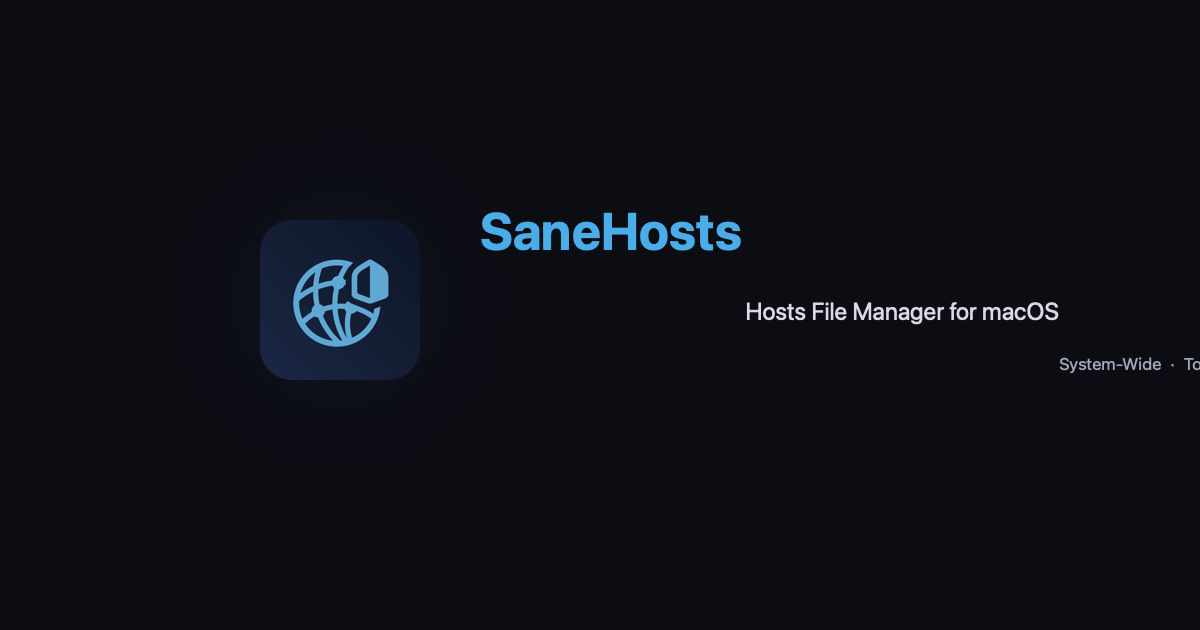
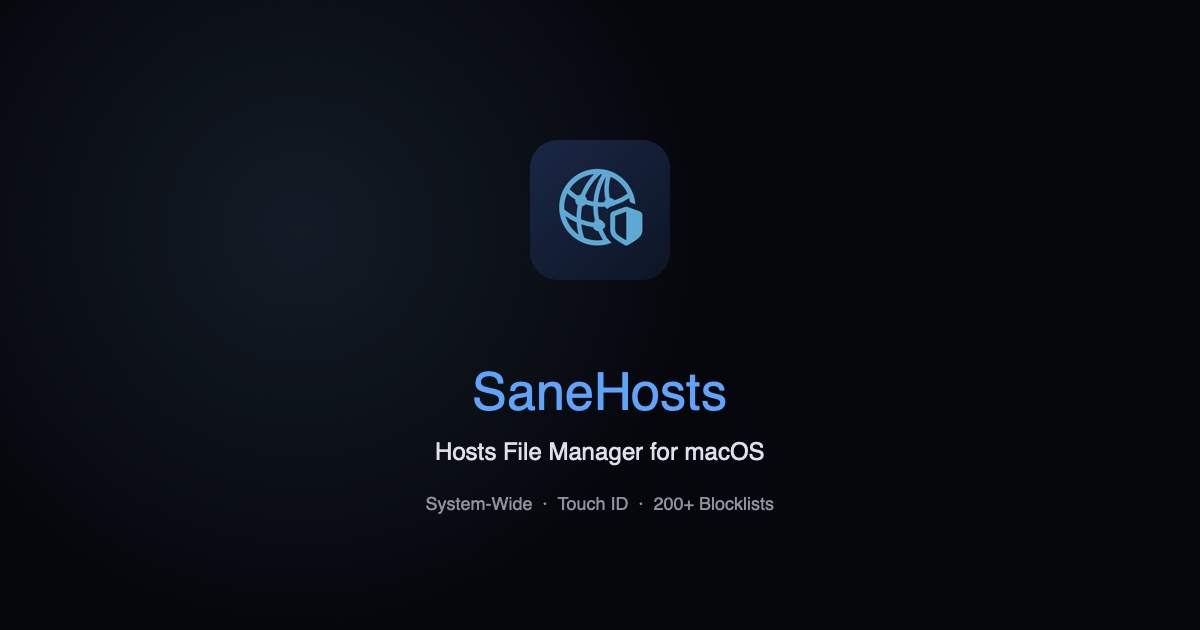
fix: website SEO audit fixes — OG tags, robots.txt, sitemap, dead CSS
- Regenerate og-image.png with centered content
- Add robots.txt and sitemap.xml (11 pages)
- Add canonical URLs, og:image dimensions, Twitter Card tags to all subpages
- Fix block-porn.html missing div wrapper in list item
- Remove orphaned dead sustainability CSS from index.html
- Remove unreferenced images/icon.png (234KB)
- Add meta descriptions and favicon to privacy.html

diff --git a/website/block-porn.html b/website/block-porn.html
@@ -14,6 +14,15 @@
     <meta property="og:image" content="https://sanehosts.com/og-image.png">
     <meta property="og:type" content="article">
     <meta property="og:url" content="https://sanehosts.com/block-porn.html">
+    <meta property="og:image:width" content="1200">
+    <meta property="og:image:height" content="630">
+    <link rel="canonical" href="https://sanehosts.com/block-porn.html" />
+
+    <!-- Twitter Card -->
+    <meta name="twitter:card" content="summary_large_image">
+    <meta name="twitter:title" content="How to Block Pornography on Mac (System-Wide)">
+    <meta name="twitter:description" content="Manual edits vs. DNS vs. SaneHosts. The complete guide.">
+    <meta name="twitter:image" content="https://sanehosts.com/og-image.png">
 
     <!-- Fonts -->
     <link rel="preconnect" href="https://fonts.googleapis.com">
@@ -263,7 +272,7 @@
                     <ul class="pc-list">
                         <li><span class="icon-check">✓</span> <div><strong>Touch ID Locked:</strong> Prevents easy bypassing (requires auth)</div></li>
                         <li><span class="icon-check">✓</span> <div><strong>Family Safe Preset:</strong> One click to set up</div></li>
-                        <li><span class="icon-check">✓</span> <strong>Fast:</strong> Uses optimized local parsing, no lag</div></li>
+                        <li><span class="icon-check">✓</span> <div><strong>Fast:</strong> Uses optimized local parsing, no lag</div></li>
                         <li><span class="icon-check">✓</span> <div><strong>Auto-Updates:</strong> Keeps the blocklist fresh</div></li>
                     </ul>
                 </div>

diff --git a/website/privacy.html b/website/privacy.html
@@ -4,6 +4,24 @@
     <meta charset="UTF-8">
     <meta name="viewport" content="width=device-width, initial-scale=1.0">
     <title>Privacy Policy - SaneHosts</title>
+    <meta name="description" content="SaneHosts collects zero data. No accounts, no analytics, no telemetry. Your data stays on your Mac.">
+    <link rel="icon" type="image/png" href="favicon.png">
+
+    <!-- Open Graph -->
+    <meta property="og:type" content="website">
+    <meta property="og:title" content="Privacy Policy - SaneHosts">
+    <meta property="og:description" content="SaneHosts collects zero data. No accounts, no analytics, no telemetry. Your data stays on your Mac.">
+    <meta property="og:image" content="https://sanehosts.com/og-image.png">
+    <meta property="og:image:width" content="1200">
+    <meta property="og:image:height" content="630">
+    <meta property="og:url" content="https://sanehosts.com/privacy.html">
+    <link rel="canonical" href="https://sanehosts.com/privacy.html" />
+
+    <!-- Twitter Card -->
+    <meta name="twitter:card" content="summary_large_image">
+    <meta name="twitter:title" content="Privacy Policy - SaneHosts">
+    <meta name="twitter:description" content="SaneHosts collects zero data. No accounts, no analytics, no telemetry. Your data stays on your Mac.">
+    <meta name="twitter:image" content="https://sanehosts.com/og-image.png">
     <style>
         :root {
             --bg-dark: #0d1525;

diff --git a/website/index.html b/website/index.html
@@ -1047,22 +1047,6 @@
                 padding-top: 110px !important;
             }
         }
-            .sustainability { padding: 80px 0; border-top: 1px solid var(--border-subtle); }
-        .sustainability-card {
-            background: linear-gradient(160deg, var(--bg-card) 0%, var(--bg-secondary) 100%);
-            border: 1px solid var(--border-subtle); border-radius: 28px; padding: 60px;
-            max-width: 800px; margin: 0 auto; position: relative; text-align: center;
-        }
-        .sustainability-options { display: grid; grid-template-columns: 1fr 1fr; gap: 20px; margin-top: 40px; }
-        .sustainability-option { 
-            text-align: left; border: 1px solid var(--border); padding: 24px; border-radius: 16px; 
-            text-decoration: none; color: inherit; transition: all 0.3s;
-        }
-        .sustainability-option:hover { border-color: var(--accent); transform: translateY(-2px); }
-        .sustainability-option.featured { background: var(--accent-subtle); border-color: var(--accent); }
-        .sustainability-option h4 { font-size: 1rem; margin-bottom: 8px; color: var(--text-primary); }
-        .sustainability-option p { font-size: 0.85rem; color: var(--text-muted); line-height: 1.5; }
-        @media (max-width: 768px) { .sustainability-options { grid-template-columns: 1fr; } }
     </style>
 </head>
 <body>

diff --git a/website/guides.html b/website/guides.html
@@ -6,6 +6,22 @@
     <title>SaneHosts Guides & Tutorials</title>
     <meta name="description" content="Step-by-step guides for blocking gambling, social media, Adobe, and more on macOS using the hosts file or SaneHosts.">
     <link rel="icon" type="image/png" href="favicon.png">
+
+    <!-- Open Graph -->
+    <meta property="og:type" content="website">
+    <meta property="og:title" content="SaneHosts Guides &amp; Tutorials">
+    <meta property="og:description" content="Step-by-step guides for blocking ads, trackers, gambling, social media, and more on Mac.">
+    <meta property="og:image" content="https://sanehosts.com/og-image.png">
+    <meta property="og:image:width" content="1200">
+    <meta property="og:image:height" content="630">
+    <meta property="og:url" content="https://sanehosts.com/guides.html">
+    <link rel="canonical" href="https://sanehosts.com/guides.html" />
+
+    <!-- Twitter Card -->
+    <meta name="twitter:card" content="summary_large_image">
+    <meta name="twitter:title" content="SaneHosts Guides &amp; Tutorials">
+    <meta name="twitter:description" content="Step-by-step guides for blocking ads, trackers, gambling, social media, and more on Mac.">
+    <meta name="twitter:image" content="https://sanehosts.com/og-image.png">
     
     <!-- Fonts -->
     <link rel="preconnect" href="https://fonts.googleapis.com">

diff --git a/website/gas-mask-alternative.html b/website/gas-mask-alternative.html
@@ -14,6 +14,15 @@
     <meta property="og:image" content="https://sanehosts.com/og-image.png">
     <meta property="og:type" content="article">
     <meta property="og:url" content="https://sanehosts.com/gas-mask-alternative.html">
+    <meta property="og:image:width" content="1200">
+    <meta property="og:image:height" content="630">
+    <link rel="canonical" href="https://sanehosts.com/gas-mask-alternative.html" />
+
+    <!-- Twitter Card -->
+    <meta name="twitter:card" content="summary_large_image">
+    <meta name="twitter:title" content="Gas Mask for Mac Not Working? The Native Alternative">
+    <meta name="twitter:description" content="Stop struggling with abandonware. Upgrade to the modern, native hosts manager.">
+    <meta name="twitter:image" content="https://sanehosts.com/og-image.png">
 
     <!-- Fonts -->
     <link rel="preconnect" href="https://fonts.googleapis.com">

diff --git a/website/block-social-media.html b/website/block-social-media.html
@@ -14,6 +14,15 @@
     <meta property="og:image" content="https://sanehosts.com/og-image.png">
     <meta property="og:type" content="article">
     <meta property="og:url" content="https://sanehosts.com/block-social-media.html">
+    <meta property="og:image:width" content="1200">
+    <meta property="og:image:height" content="630">
+    <link rel="canonical" href="https://sanehosts.com/block-social-media.html" />
+
+    <!-- Twitter Card -->
+    <meta name="twitter:card" content="summary_large_image">
+    <meta name="twitter:title" content="How to Block Social Media on Mac (Hard vs Easy Mode)">
+    <meta name="twitter:description" content="Manual edits vs. Subscriptions vs. SaneHosts. Find the right blocker for you.">
+    <meta name="twitter:image" content="https://sanehosts.com/og-image.png">
 
     <!-- Fonts -->
     <link rel="preconnect" href="https://fonts.googleapis.com">

diff --git a/website/block-malware.html b/website/block-malware.html
@@ -14,6 +14,15 @@
     <meta property="og:image" content="https://sanehosts.com/og-image.png">
     <meta property="og:type" content="article">
     <meta property="og:url" content="https://sanehosts.com/block-malware.html">
+    <meta property="og:image:width" content="1200">
+    <meta property="og:image:height" content="630">
+    <link rel="canonical" href="https://sanehosts.com/block-malware.html" />
+
+    <!-- Twitter Card -->
+    <meta name="twitter:card" content="summary_large_image">
+    <meta name="twitter:title" content="How to Turn Your Hosts File into a Malware Firewall">
+    <meta name="twitter:description" content="Block C&amp;C servers system-wide. Manual vs Antivirus vs SaneHosts.">
+    <meta name="twitter:image" content="https://sanehosts.com/og-image.png">
 
     <!-- Fonts -->
     <link rel="preconnect" href="https://fonts.googleapis.com">

diff --git a/website/block-gambling.html b/website/block-gambling.html
@@ -14,6 +14,15 @@
     <meta property="og:image" content="https://sanehosts.com/og-image.png">
     <meta property="og:type" content="article">
     <meta property="og:url" content="https://sanehosts.com/block-gambling.html">
+    <meta property="og:image:width" content="1200">
+    <meta property="og:image:height" content="630">
+    <link rel="canonical" href="https://sanehosts.com/block-gambling.html" />
+
+    <!-- Twitter Card -->
+    <meta name="twitter:card" content="summary_large_image">
+    <meta name="twitter:title" content="How to Block Gambling Sites on Mac (Hard vs Easy Mode)">
+    <meta name="twitter:description" content="System-wide protection. Manual vs Subscription vs SaneHosts.">
+    <meta name="twitter:image" content="https://sanehosts.com/og-image.png">
 
     <!-- Fonts -->
     <link rel="preconnect" href="https://fonts.googleapis.com">

diff --git a/website/block-telemetry.html b/website/block-telemetry.html
@@ -14,6 +14,15 @@
     <meta property="og:image" content="https://sanehosts.com/og-image.png">
     <meta property="og:type" content="article">
     <meta property="og:url" content="https://sanehosts.com/block-telemetry.html">
+    <meta property="og:image:width" content="1200">
+    <meta property="og:image:height" content="630">
+    <link rel="canonical" href="https://sanehosts.com/block-telemetry.html" />
+
+    <!-- Twitter Card -->
+    <meta name="twitter:card" content="summary_large_image">
+    <meta name="twitter:title" content="How to Block Windows &amp; Google Telemetry on Mac">
+    <meta name="twitter:description" content="Stop the spying. Manual edits vs. Firewalls vs. SaneHosts.">
+    <meta name="twitter:image" content="https://sanehosts.com/og-image.png">
 
     <!-- Fonts -->
     <link rel="preconnect" href="https://fonts.googleapis.com">

diff --git a/website/block-fake-news.html b/website/block-fake-news.html
@@ -14,6 +14,15 @@
     <meta property="og:image" content="https://sanehosts.com/og-image.png">
     <meta property="og:type" content="article">
     <meta property="og:url" content="https://sanehosts.com/block-fake-news.html">
+    <meta property="og:image:width" content="1200">
+    <meta property="og:image:height" content="630">
+    <link rel="canonical" href="https://sanehosts.com/block-fake-news.html" />
+
+    <!-- Twitter Card -->
+    <meta name="twitter:card" content="summary_large_image">
+    <meta name="twitter:title" content="How to Block Fake News &amp; Clickbait on Mac">
+    <meta name="twitter:description" content="Clean up your feed. Manual edits vs. Extensions vs. SaneHosts.">
+    <meta name="twitter:image" content="https://sanehosts.com/og-image.png">
 
     <!-- Fonts -->
     <link rel="preconnect" href="https://fonts.googleapis.com">

diff --git a/website/block-adobe.html b/website/block-adobe.html
@@ -14,6 +14,15 @@
     <meta property="og:image" content="https://sanehosts.com/og-image.png">
     <meta property="og:type" content="article">
     <meta property="og:url" content="https://sanehosts.com/block-adobe.html">
+    <meta property="og:image:width" content="1200">
+    <meta property="og:image:height" content="630">
+    <link rel="canonical" href="https://sanehosts.com/block-adobe.html" />
+
+    <!-- Twitter Card -->
+    <meta name="twitter:card" content="summary_large_image">
+    <meta name="twitter:title" content="How to Block Adobe Background Processes on Mac">
+    <meta name="twitter:description" content="Manual edits vs. Firewalls vs. SaneHosts. Stop the telemetry.">
+    <meta name="twitter:image" content="https://sanehosts.com/og-image.png">
 
     <!-- Fonts -->
     <link rel="preconnect" href="https://fonts.googleapis.com">
